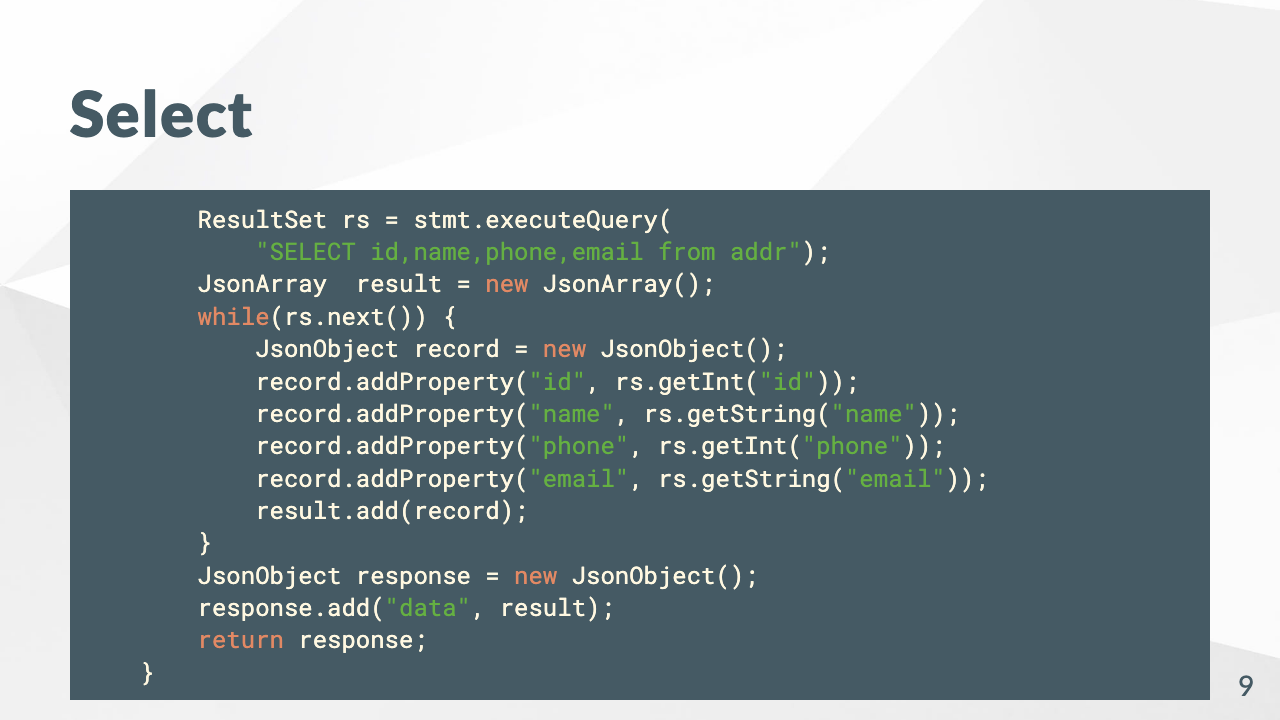
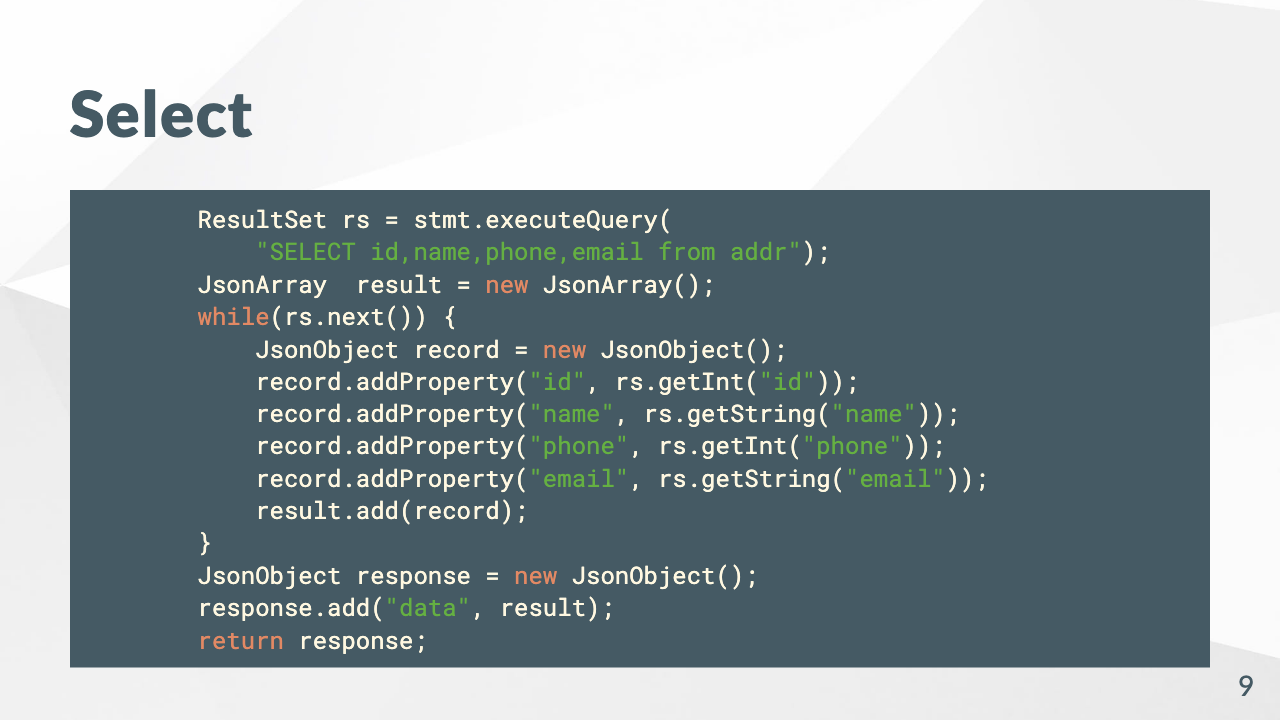
pres update

diff --git a/5-java-demo/pres/pres.014.js b/5-java-demo/pres/pres.014.js
@@ -2,15 +2,15 @@ let select = ""
 let data = []
 let form = {}
 async function all()  {
-      let res = await fetch(base+"select.json")
-      let body = await res.json()
-      data = body.data
+  let res = await fetch(base+"select.json")
+  let body = await res.json()
+  data = body.data
 }
 function submit() {
-        fetch(base+"insert", { method: 'POST', 
-            headers: { 'Content-Type': 'application/json' }, 
-            body: JSON.stringify(form) }).then(all)
-        form = {}
+    fetch(base+"insert", { method: 'POST', 
+      headers: { 'Content-Type': 'application/json' }, 
+      body: JSON.stringify(form) }).then(all)
+    form = {}
 }
 function remove() {
     fetch(base+"delete?id="+select).then(all).catch(console.log)

diff --git a/5-java-demo/pres.md b/5-java-demo/pres.md
@@ -9,10 +9,12 @@ html: true
 ---
 # <!--!--> Init
 ```sh
+ssh -L8080:127.0.0.1:8080 devkit
 echo "drop table addr;" | psql address
 source nuv.src
 nuv action list | awk '/private/{ print $1}' | xargs -L1 nuv action delete
 nuv package delete address
+rm -Rvf addr
 oc login -u nuvolaris -p s3cr3t
 oc project nuvolaris
 oc get pod
@@ -112,7 +114,6 @@ oc get pod
         JsonObject response = new JsonObject();
         response.add("data", result);
         return response;
-    }
 ```
 
 ---
@@ -169,15 +170,15 @@ let select = ""
 let data = []
 let form = {}
 async function all()  {
-      let res = await fetch(base+"select.json")
-      let body = await res.json()
-      data = body.data
+  let res = await fetch(base+"select.json")
+  let body = await res.json()
+  data = body.data
 }
 function submit() {
-        fetch(base+"insert", { method: 'POST', 
-            headers: { 'Content-Type': 'application/json' }, 
-            body: JSON.stringify(form) }).then(all)
-        form = {}
+    fetch(base+"insert", { method: 'POST', 
+      headers: { 'Content-Type': 'application/json' }, 
+      body: JSON.stringify(form) }).then(all)
+    form = {}
 }
 function remove() {
     fetch(base+"delete?id="+select).then(all).catch(console.log)
